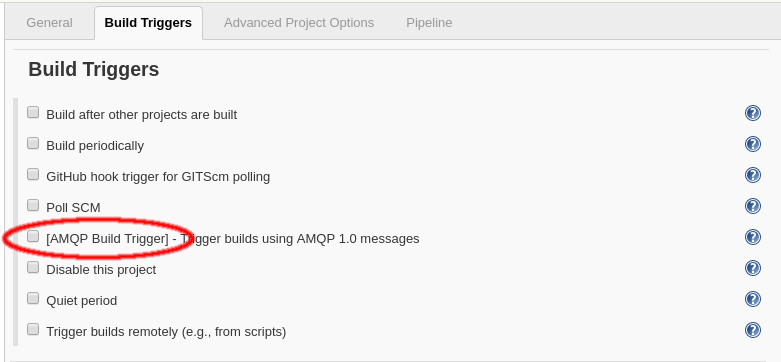
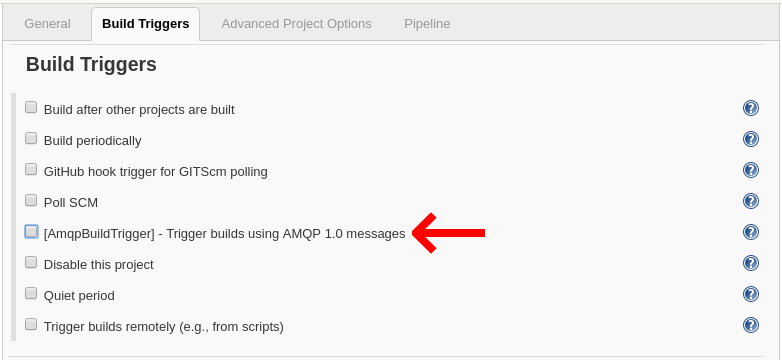
Issue #9: Some minor changes to GUI text to clarify references to AMQP entities.

diff --git a/src/main/resources/com/redhat/jenkins/plugins/amqpbuildtrigger/AmqpBrokerParams/help-url.html b/src/main/resources/com/redhat/jenkins/plugins/amqpbuildtrigger/AmqpBrokerParams/help-url.html
@@ -1,5 +1,5 @@
 <div>
-  <p>URL for the AMQP server which will host the queue or topic from which trigger messages will be received.</p>
+  <p>URL for the AMQP source (typically a queue or topic) which will host the queue or topic from which trigger messages will be received.</p>
   <p>Format: amqp[s]://&lt;broker-ip-address&gt;[:&lt;port&gt;]</p>
   <p><b>Required</b></p>
 </div>

diff --git a/src/main/java/com/redhat/jenkins/plugins/amqpbuildtrigger/AmqpBrokerParams.java b/src/main/java/com/redhat/jenkins/plugins/amqpbuildtrigger/AmqpBrokerParams.java
@@ -7,9 +7,6 @@ import hudson.model.Descriptor;
 import hudson.util.FormValidation;
 import hudson.util.Secret;
 
-//import javax.jms.Connection;
-import javax.jms.ConnectionMetaData;
-//import javax.jms.ConnectionFactory;
 import javax.jms.ExceptionListener;
 import javax.jms.JMSException;
 import javax.jms.MessageConsumer;
@@ -22,7 +19,6 @@ import jenkins.model.Jenkins;
 import org.apache.commons.lang3.StringUtils;
 import org.apache.qpid.jms.JmsConnection;
 import org.apache.qpid.jms.JmsConnectionFactory;
-//import org.apache.qpid.jms.JmsConnectionMetaData;
 
 import org.kohsuke.stapler.DataBoundConstructor;
 import org.kohsuke.stapler.DataBoundSetter;
@@ -128,9 +124,6 @@ public class AmqpBrokerParams implements Describable<AmqpBrokerParams> {
                     connection.setExceptionListener(new MyExceptionListener());
                     connection.start();
 
-                    // Get connection properties
-                    ConnectionMetaData connectionProperties = connection.getMetaData();
-
                     Session session = connection.createSession(false, Session.AUTO_ACKNOWLEDGE);
                     Queue queue = session.createQueue(sourceAddr);
                     MessageConsumer messageConsumer = session.createConsumer(queue);
@@ -138,8 +131,7 @@ public class AmqpBrokerParams implements Describable<AmqpBrokerParams> {
                     messageConsumer.close();
                     session.close();
                     connection.close();
-                    return FormValidation.ok("Connection ok [" + connectionProperties.getJMSProviderName() +
-                    		                 " v" + connectionProperties.getProviderVersion() + "]");
+                    return FormValidation.ok("OK");
                 } catch (javax.jms.JMSException e) {
                     return FormValidation.error(e.toString());
                 }

diff --git a/src/main/java/com/redhat/jenkins/plugins/amqpbuildtrigger/AmqpBuildTrigger.java b/src/main/java/com/redhat/jenkins/plugins/amqpbuildtrigger/AmqpBuildTrigger.java
@@ -27,7 +27,7 @@ import org.kohsuke.stapler.DataBoundSetter;
 public class AmqpBuildTrigger<T extends Job<?, ?> & ParameterizedJobMixIn.ParameterizedJob> extends Trigger<T> {
     private static final String KEY_PARAM_NAME = "name";
     private static final String KEY_PARAM_VALUE = "value";
-    private static final String PLUGIN_NAME = "[AMQP Build Trigger] - Trigger builds using AMQP 1.0 messages";
+    private static final String PLUGIN_NAME = "[AmqpBuildTrigger] - Trigger builds using AMQP 1.0 messages";
     private List<AmqpBrokerParams> amqpBrokerParamsList = new ArrayList<AmqpBrokerParams>();
 
     @DataBoundConstructor

diff --git a/README.md b/README.md
@@ -13,25 +13,23 @@ then select the **Advanced** tab. Under the **Upload Plugin** section, select th
 After a restart, the plugin should be active in Jenkins.
 
 ## Basic Configuration
-Within each job, scroll down to the **Build Triggers** section (or click on the **Build Triggers** tab) and then locate the **[AMQP Build Trigger]** checkbox. Select the **[AMQP Build Trigger]** checkbox to enable the trigger.
+Within each job, scroll down to the **Build Triggers** section (or click on the **Build Triggers** tab) and then locate the **[AmqpBuildTrigger]** checkbox. Select the **[AmqpBuildTrigger]** checkbox to enable the trigger.
 
 ![AMQP Build Trigger location](images/image_A.png)
 
-Each job may specify multiple AMQP sources for trigger messages. Initially, the list will be empty. Click the **Add** button to add an AMQP server, then select **AMQP server parameters** from the drop-down list.
+Each job may specify multiple AMQP sources for trigger messages. Initially, the list will be empty. Click the **Add** button to add an AMQP trigger source.
 
 ![Adding a new AMQP server](images/image_B.png)
 
 This will create a new empty server parameters block. To complete this block:
 
 * Enter the **URL** in the format `amqp://ip-addr[:port]`, eg `amqp://localhost` or `amqp://localhost:5672` or `amqp://10.0.0.5:35672`
-* If necessary, enter a **Usern** and **Password** for logging onto the server. If supplied, the connection will use SASL `PLAIN` authentication, otherwise if left blank, `ANONYMOUS`. Make sure the server is configured for this type of access and that the user is known to it.
+* If necessary, enter a **User** and **Password** for logging onto the server. If supplied, the connection will use SASL `PLAIN` authentication, otherwise if left blank, `ANONYMOUS`. Make sure the server is configured for this type of access and that the user is known to it.
 * Enter a **Source address** from which to receive messages. If the server is a broker, then this is usually the name of a queue or topic.
 
 ![Server properties block](images/image_C.png)
 
 * A **Test Source** button if clicked will establish a temporary connection to the server and report `Connection ok` if it worked, otherwise an error message will be displayed.
-
-![Testing the connection](images/image_D.png)
 
 To add additional sources, click the **Add** button. To remove a source, click the red **X** button at the top of each block.
 
@@ -39,7 +37,7 @@ Finally, click the **Save** button at the bottom of the form to save the setting
 
 **NOTE:** It is possible to perform a simple test of the trigger by using the maven command `mvn hpi:run` from the project top level directory. This will start a simplified version of Jenkins on a Jetty server instance, and the trigger plugin will be installed and running. Only Freestyle projects are available, but it makes for a quick and easy way of testing the trigger. The web interface will be available on `localhost:8080/jenkins`, and all jenkins logs, project files, etc. will be located in the project top-level directory under `work`.
 
-**NOTE:** It is possible to quickly send trigger messages using `qpid-send` through a broker running on localhost as follows:
+**NOTE:** It is possible to quickly send trigger messages using `qpid-send` through a broker running on localhost as follows (to which the trigger must be configured to listen):
 ```
 qpid-send -a <queue-name> -m1
 ```
